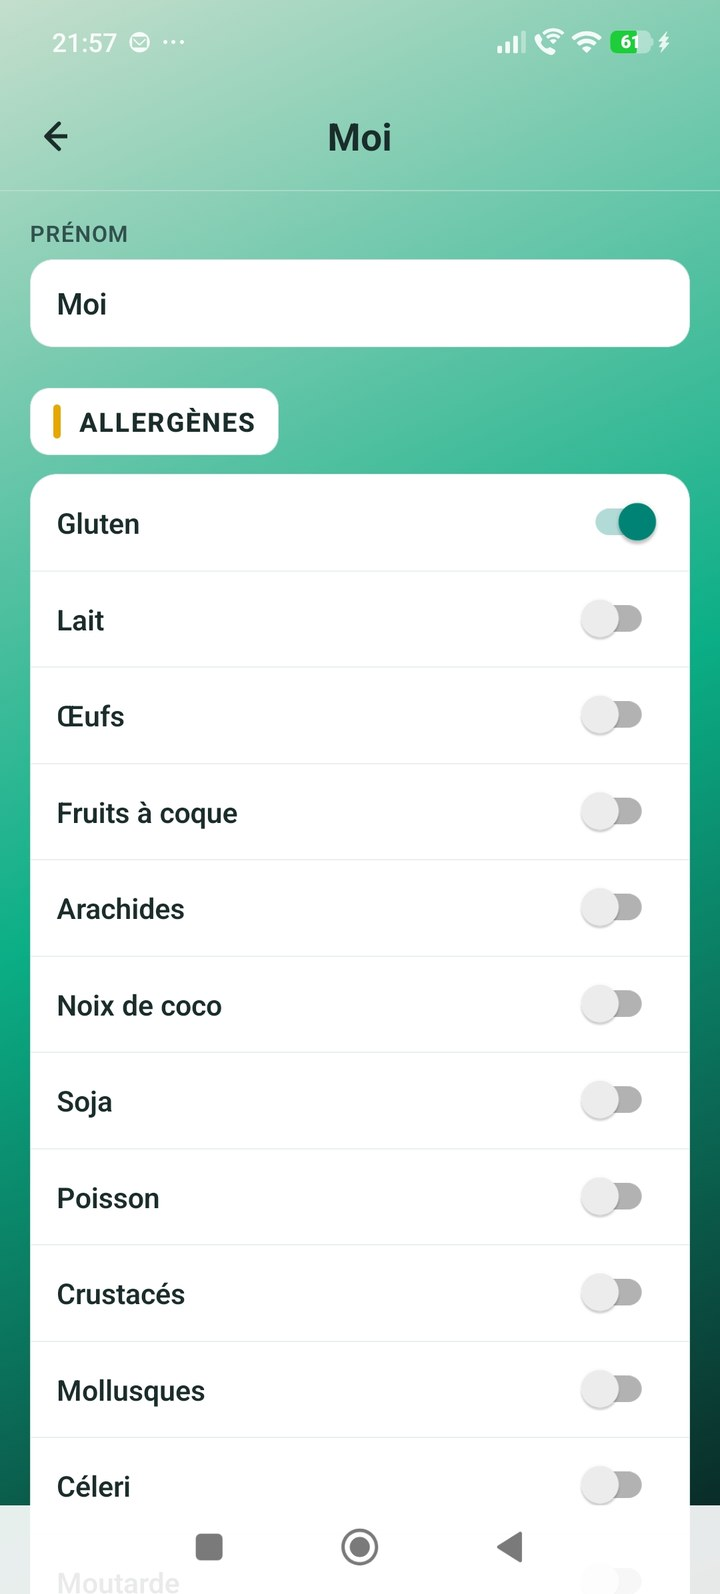
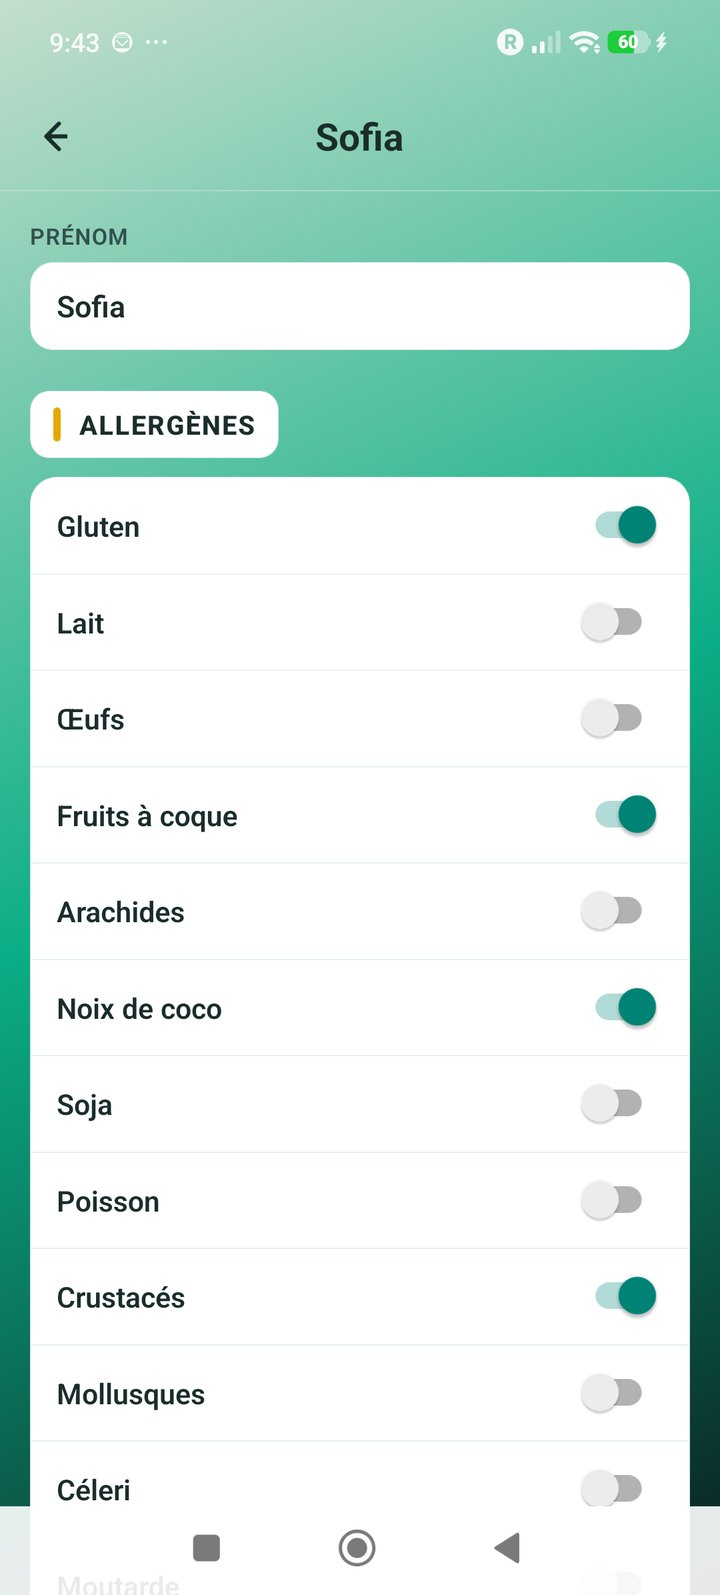
feat(site): refresh FR screenshots from the current app (1.0.28)
Replaces press-kit screenshots with fresh captures taken from the
installed FR app via expo-router deep links + adb screencap:
- regime-profils, regime-allergenes, saisie-manuelle: recaptured
- resultat-aucun-rappel: NEW. Restores the result screen that had to be
  dropped, now showing the neutral "Aucun rappel" wording instead of the
  green "SÉCURITAIRE" badge removed for liability reasons.

Adds a short explanation next to the result shot: absence of a recall is
not a safety guarantee, and scan photos are deleted immediately.

diff --git a/public/fr/index.html b/public/fr/index.html
@@ -523,6 +523,21 @@
       </div>
       <div class="shots" style="margin-top: 22px;">
         <div class="shot">
+          <img src="/images/resultat-aucun-rappel.jpeg" alt="Résultat d'une vérification : aucun rappel trouvé" loading="lazy" />
+          <span>La réponse</span>
+        </div>
+        <div class="shot" style="grid-column: span 2; align-self: center; text-align: left;">
+          <p style="margin: 0; color: var(--muted); font-size: 14px; line-height: 1.6;">
+            La réponse indique le statut du lot au regard des rappels publiés, avec la date de
+            dernière vérification. L'absence de rappel n'est pas une garantie de sécurité du
+            produit : elle signifie qu'aucun rappel correspondant n'a été trouvé dans les bases
+            officielles à cet instant. Les photos prises pendant le scan sont supprimées
+            immédiatement ; seuls la marque et le numéro de lot sont conservés.
+          </p>
+        </div>
+      </div>
+      <div class="shots" style="margin-top: 22px;">
+        <div class="shot">
           <img src="/images/scan-1-marque-detectee.jpeg" alt="Marque détectée après le scan du code-barres" loading="lazy" />
           <span>1 · Marque détectée</span>
         </div>
